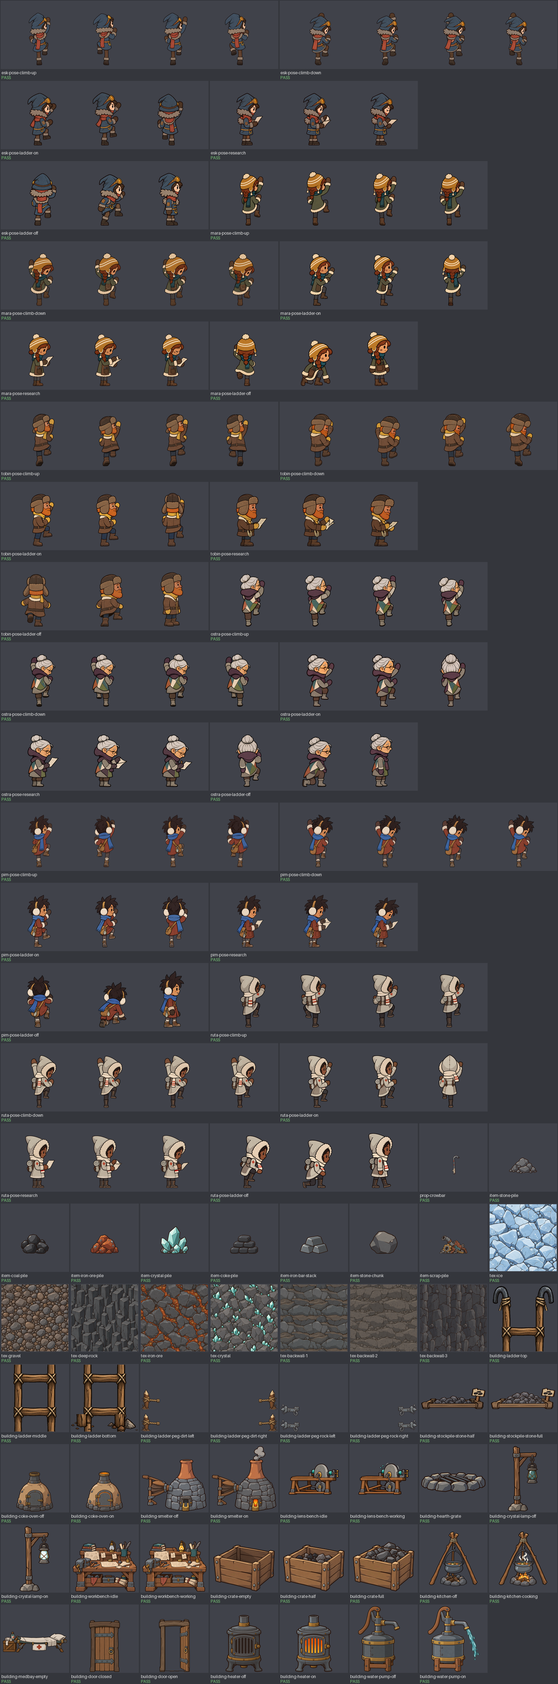
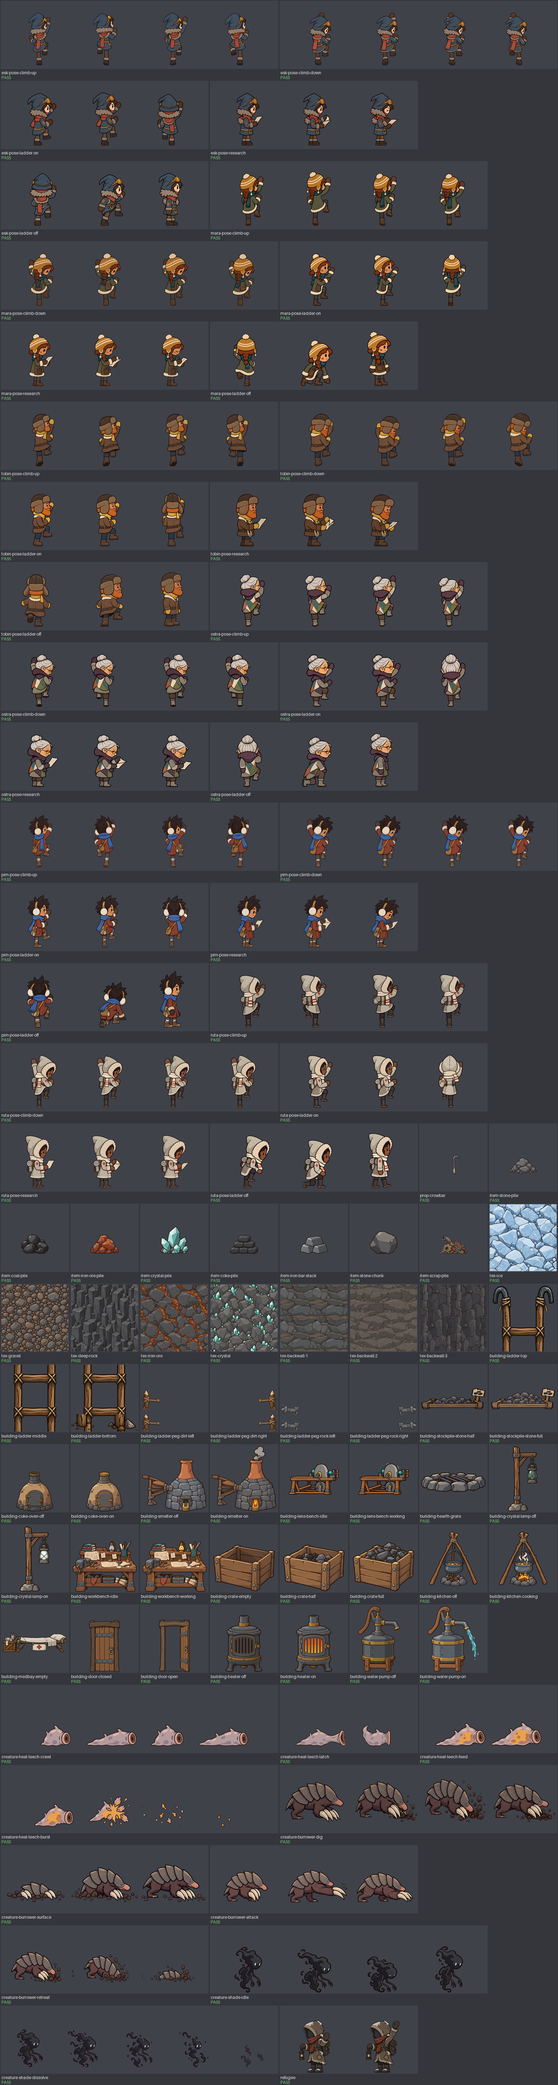
Art batch 3 creatures: Shade idle and dissolve, leeches, Burrower and refugee

diff --git a/art-codex/tools/prepare_batch3.py b/art-codex/tools/prepare_batch3.py
@@ -2,6 +2,7 @@
 """Register generated Batch 3 art without stretching poses to fill their cells."""
 import argparse
 import json
+from io import BytesIO
 from pathlib import Path
 import numpy as np
 from PIL import Image, ImageDraw, ImageOps
@@ -11,6 +12,24 @@ from prepare_generated import ROOT, OUT, content, figure_cells, asset
 def clean_source(source):
     rgba = np.array(Image.open(source).convert('RGBA'))
     rgba[:, :, 3] = np.where(rgba[:, :, 3] >= 240, 255, 0)
+    return Image.fromarray(rgba)
+
+
+def leech_palette(image):
+    """Flatten the generated translucent heat treatment into crisp fill tones."""
+    colours = np.array([[42,28,20],[85,58,62],[180,155,158],[148,125,132],
+                        [207,180,172],[207,150,132],[171,118,108],[228,183,161],
+                        [231,162,79],[191,117,68],[239,188,103]],dtype=np.int32)
+    rgba = np.array(image)
+    rgb = rgba[:,:,:3].astype(np.int32)
+    best = np.full(rgb.shape[:2],1000000,dtype=np.int32)
+    indices = np.zeros(rgb.shape[:2],dtype=np.uint8)
+    for i,colour in enumerate(colours):
+        distance = ((rgb-colour)**2).sum(axis=2,dtype=np.int32)
+        update = distance < best
+        indices[update] = i
+        best[update] = distance[update]
+    rgba[:,:,:3] = colours[indices].astype(np.uint8)
     return Image.fromarray(rgba)
 
 
@@ -55,8 +74,10 @@ def pegs(source, material):
 def register(source, ident):
     specs = json.loads((ROOT / 'assets.json').read_text())['assets']
     spec = next(a for a in specs if a['id'] == ident)
+    (ROOT.parent/spec['path']).parent.mkdir(parents=True,exist_ok=True)
     image = Image.open(source).convert('RGBA')
-    if spec.get('character') and spec['kind'] == 'pose':
+    if ident == 'refugee': image = clean_source(source)
+    if (spec.get('character') and spec['kind'] == 'pose') or ident == 'refugee':
         n = spec['frames']
         cells = figure_cells(image, n) if n > 1 else [content(image)]
         pose = Path(spec['path']).stem
@@ -78,8 +99,42 @@ def register(source, ident):
             support_x = round(xs[bottom].mean())
             x = 160-support_x
             x = max(2, min(318-cell.width, x))
-            out.alpha_composite(cell, (i*320+x, 305-cell.height))
+            baseline = 319 if ident == 'refugee' else 305
+            out.alpha_composite(cell, (i*320+x, baseline-cell.height))
         out.save(ROOT.parent / spec['path'])
+    elif ident.startswith('creature-shade-'):
+        n = spec['frames']
+        cells = [content(image.crop((i*image.width//n,0,(i+1)*image.width//n,image.height))) for i in range(n)]
+        reference = Image.open(OUT/'creatures/shade/drift.png').convert('RGBA').crop((0,0,320,320))
+        target_h = content(reference).height
+        scale = min(target_h/cells[0].height,280/max(c.width for c in cells))
+        out = Image.new('RGBA',(320*n,320))
+        for i,cell in enumerate(cells):
+            cell = cell.resize((round(cell.width*scale),round(cell.height*scale)),Image.Resampling.LANCZOS)
+            if ident.endswith('dissolve') and i == n-1:
+                alpha = cell.getchannel('A').point(lambda v:round(v*.65))
+                cell.putalpha(alpha)
+            out.alpha_composite(cell,(i*320+(320-cell.width)//2,318-cell.height))
+        out.save(ROOT.parent/spec['path'])
+    elif ident.startswith(('creature-burrower-', 'creature-heat-leech-')):
+        # Discard generated ambient haze before reduction; keep the painted art.
+        painted = clean_source(source)
+        if ident.startswith('creature-heat-leech-'): painted = leech_palette(painted)
+        if ident in {'creature-heat-leech-crawl','creature-heat-leech-latch',
+                     'creature-heat-leech-feed','creature-burrower-attack'}:
+            cells = figure_cells(painted,spec['frames'])
+            w,h,n = spec['width'],spec['height'],spec['frames']
+            scale = min((w-16)/max(c.width for c in cells),(h-8)/max(c.height for c in cells))
+            out = Image.new('RGBA',(w*n,h))
+            for i,cell in enumerate(cells):
+                cell = cell.resize((round(cell.width*scale),round(cell.height*scale)),Image.Resampling.LANCZOS)
+                out.alpha_composite(cell,(i*w+(w-cell.width)//2,h-2-cell.height))
+            out.save(ROOT.parent/spec['path'])
+            return
+        buffer = BytesIO()
+        painted.save(buffer,format='PNG')
+        buffer.seek(0)
+        asset(buffer,spec)
     elif ident.startswith(('icon-', 'badge-', 'trait-')):
         cell = content(image)
         scale = min(96/cell.width, 96/cell.height)

diff --git a/art-codex/tools/finish_batch3.py b/art-codex/tools/finish_batch3.py
@@ -81,11 +81,36 @@ def log_group(group):
     log.write_text((log.read_text()+text).rstrip()+'\n')
 
 
+def centre_strips():
+    specs = json.loads((ROOT/'assets.json').read_text())['assets']
+    for a in specs:
+        if a['batch'] != 3 or not (a['id'].startswith('creature-') or a['id']=='refugee'): continue
+        path = ROOT.parent/a['path']
+        if not path.exists(): continue
+        strip = Image.open(path).convert('RGBA')
+        w,h,n = a['width'],a['height'],a['frames']
+        cells = [strip.crop((i*w,0,(i+1)*w,h)) for i in range(n)]
+        moments = []
+        for cell in cells:
+            ys,xs = np.where(np.asarray(cell.getchannel('A')) >= 128)
+            moments.append((xs.mean(),xs.min(),xs.max()))
+        if max(m[0] for m in moments)-min(m[0] for m in moments) <= 12: continue
+        reach = max(max(c-left,right-c) for c,left,right in moments)
+        scale = min(1,(w/2-8)/reach)
+        out = Image.new('RGBA',strip.size)
+        for i,cell in enumerate(cells):
+            cell = cell.resize((round(w*scale),round(h*scale)),Image.Resampling.LANCZOS)
+            ys,xs = np.where(np.asarray(cell.getchannel('A')) >= 128)
+            out.alpha_composite(cell,(i*w+round(w/2-xs.mean()),h-2-int(ys.max())))
+        out.save(path)
+
+
 if __name__ == '__main__':
     p = argparse.ArgumentParser()
-    p.add_argument('mode',choices=('states','wrap','log'))
+    p.add_argument('mode',choices=('states','wrap','log','centre'))
     p.add_argument('value',nargs='?')
     args = p.parse_args()
     if args.mode == 'states': align_states()
+    elif args.mode == 'centre': centre_strips()
     elif args.mode == 'wrap': wrap_texture(Path(args.value))
     else: log_group(args.value)

diff --git a/art-codex/tools/review_batch3.py b/art-codex/tools/review_batch3.py
@@ -48,12 +48,35 @@ def buildings():
     sheet.save(OUT/'contact-batch3-buildings.png')
 
 
+def creatures():
+    specs = json.loads((OUT.parent/'assets.json').read_text())['assets']
+    rows = [a for a in specs if a['batch']==3 and (a['id'].startswith('creature-') or a['id']=='refugee') and (OUT.parent.parent/a['path']).exists()]
+    sheet = Image.new('RGB',(1000,len(rows)*190),'#3d3f45')
+    draw = ImageDraw.Draw(sheet)
+    for row,a in enumerate(rows):
+        path = OUT.parent.parent/a['path']
+        strip = Image.open(path).convert('RGBA')
+        frames = []
+        for i in range(a['frames']):
+            cell = strip.crop((i*a['width'],0,(i+1)*a['width'],a['height']))
+            preview = Image.new('RGBA',cell.size,(61,63,69,255))
+            preview.alpha_composite(cell)
+            frames.append(preview.convert('RGB'))
+            cell.thumbnail((192,160),Image.Resampling.LANCZOS)
+            sheet.paste(cell,(i*200+(192-cell.width)//2,row*190+160-cell.height),cell)
+        draw.text((4,row*190+166),a['id'],fill='white')
+        loop = {'loop':0} if path.stem in ('crawl','latch','feed','dig','idle') else {}
+        frames[0].save(path.with_suffix('.gif'),save_all=True,append_images=frames[1:],duration=166,**loop)
+    sheet.save(OUT/'contact-batch3-creatures.png')
+
+
 if __name__ == '__main__':
     comparison('eat')
     comparison('collapse', ('esk','mara','ostra','pim','ruta'))
     comparison('dead', ('esk','mara'))
     icons()
     buildings()
+    creatures()
     for pose in ('climb-up','climb-down','ladder-on','ladder-off','research'):
         if all((OUT/'characters'/name/'poses'/f'{pose}.png').exists() for name in NAMES):
             comparison(pose)

diff --git a/art-codex/out/LOG.md b/art-codex/out/LOG.md
@@ -1397,3 +1397,121 @@ Final prompt:
 Hand-drawn 2D game art for a side-on underground survival game. Clean, confident dark-brown ink linework of even weight, thicker on the outer silhouette and thinner inside, with slightly hand-made wobble. Flat colour fills with one crisp-edged shadow tone and one small highlight, lit evenly from the upper left. A faint paper-grain texture inside the fills only. Big simple shapes and generous plain areas; detail only where the eye should go. Muted, cold palette; warm colours only for fire, scarves and skin. In the spirit of Klei's Don't Starve and Oxygen Not Included and the flat graphic look of the Hilda animated series. Not photoreal, not 3D-rendered, no airbrushed gradients, no glow, no bloom, no rim light, no lens effects, no cast shadow on the ground, no background, no text.
 Tobin (the builder, see CHARACTERS.md). Side view facing right, standing and leaning over a waist-high workbench (not painted: leave the bench out, the game draws it). Frame 1 reading, frame 2 turning a page with the near mitten, frame 3 nodding and making a note. Body and feet stay put; only the arms, head and page move. Same scale as the turnaround: the head is exactly as wide and tall as in the turnaround's side view, so nothing grows or shrinks when the game switches from walking to this pose. A seated figure is about 0.7 of the standing height, a kneeling one about 0.75, a lying one about 0.35; never stretch a pose to fill the frame.
 The same character as the reference, same proportions, same colours. Three equally spaced full-body figures in one horizontal strip on transparent background. Same105px head and250px standing scale, groundy304,320x320 cells. Hands are simple mittens, never visible fingers. Feet and body completely fixed across3frames, movement only near mitten and head. Reading and handling a small loose sheet of paper held at waist height. DO NOT paint a bench, lamp or other furniture. Do not enlarge head or shoulders. Flat muted palette exactly matching model. Hat/head and coat/body proportions copied from turnaround.
+
+## Batch 3: creatures
+
+### creature-burrower-attack
+
+Tries: 2. Built-in imagegen. Source: `/var/home/shariq/.codex/generated_images/01a18495-b86b-71d1-8789-59a825b5766a/exec-7e36ef25-e0b6-4be7-b46b-e90eb8ce2d4a.png`.
+
+Final prompt:
+
+Hand-drawn 2D game art for a side-on underground survival game. Clean, confident dark-brown ink linework of even weight, thicker on the outer silhouette and thinner inside, with slightly hand-made wobble. Flat colour fills with one crisp-edged shadow tone and one small highlight, lit evenly from the upper left. A faint paper-grain texture inside the fills only. Big simple shapes and generous plain areas; detail only where the eye should go. Muted, cold palette; warm colours only for fire, scarves and skin. In the spirit of Klei's Don't Starve and Oxygen Not Included and the flat graphic look of the Hilda animated series. Not photoreal, not 3D-rendered, no airbrushed gradients, no glow, no bloom, no rim light, no lens effects, no cast shadow on the ground, no background, no text.
+Generate a corrected animation strip of the SAME CREATURE as reference, same proportions and colours. CLAW ATTACK, not digging. Frame1 whole eyeless armoured mole crouches and pulls its three big shovel claws BACK beside chest, ready to swipe. Frame2 huge near foreclaw swings far FORWARD to the right, clear attacking swipe, chest raised. Frame3 follow-through: near claw fully extended right, body leaning forward, head low. Full animal remains visible, constant plate and head size. No digging rocks, no rubble spray, no target or victim, no eyes. One small ink motion arc allowed.
+Exactly 3 complete, evenly spaced frames in ONE horizontal transparent strip, each frame same canvas size. No extra panels, no labels. Keep generous transparent gaps between figures. Reference shows creature design only; draw the NEW ACTION just described. Muted palette, clean crisp flat fills, no background, no ambient haze, no cast shadow.
+
+### creature-burrower-dig
+
+Tries: 1. Built-in imagegen. Source: `/var/home/shariq/.codex/generated_images/01a18495-b86b-71d1-8789-59a825b5766a/exec-26c30b9a-167c-4427-a9fe-836c1b75e41e.png`.
+
+Final prompt:
+
+Hand-drawn 2D game art for a side-on underground survival game. Clean, confident dark-brown ink linework of even weight, thicker on the outer silhouette and thinner inside, with slightly hand-made wobble. Flat colour fills with one crisp-edged shadow tone and one small highlight, lit evenly from the upper left. A faint paper-grain texture inside the fills only. Big simple shapes and generous plain areas; detail only where the eye should go. Muted, cold palette; warm colours only for fire, scarves and skin. In the spirit of Klei's Don't Starve and Oxygen Not Included and the flat graphic look of the Hilda animated series. Not photoreal, not 3D-rendered, no airbrushed gradients, no glow, no bloom, no rim light, no lens effects, no cast shadow on the ground, no background, no text.
+A Burrower: a mole-like beast the size of a dog, armoured overlapping plates, eyeless, huge shovel claws. Side view facing right. Animation: dig, 4 frames.
+Generate all frames of one animation in one image so they match.
+ONE horizontal animation strip, exactly 4 evenly spaced frames. Each frame has equal384x256 canvas and generous clear space from neighbours, real transparent background. Same anatomy, design and source-pixel scale in all frames. Base or lowest wisp remains on bottom row. Clean flat graphic shapes, consistent ink, no gradient, no glowing halo, no floor or background.  Eyeless mole, no eyes, five big armour plates, three large shovel claws; no tiny scale detail.
+
+### creature-burrower-retreat
+
+Tries: 2. Built-in imagegen. Source: `/var/home/shariq/.codex/generated_images/01a18495-b86b-71d1-8789-59a825b5766a/exec-7f44978d-547a-4377-8750-14852898f059.png`.
+
+Final prompt:
+
+Hand-drawn 2D game art for a side-on underground survival game. Clean, confident dark-brown ink linework of even weight, thicker on the outer silhouette and thinner inside, with slightly hand-made wobble. Flat colour fills with one crisp-edged shadow tone and one small highlight, lit evenly from the upper left. A faint paper-grain texture inside the fills only. Big simple shapes and generous plain areas; detail only where the eye should go. Muted, cold palette; warm colours only for fire, scarves and skin. In the spirit of Klei's Don't Starve and Oxygen Not Included and the flat graphic look of the Hilda animated series. Not photoreal, not 3D-rendered, no airbrushed gradients, no glow, no bloom, no rim light, no lens effects, no cast shadow on the ground, no background, no text.
+Generate a corrected animation strip of the SAME CREATURE as reference, same proportions and colours. RETREATING UNDERGROUND, not digging in place. Frame1 full mole crouches to dive headfirst into ground. Frame2 ONLY back armour arch and hind legs remain visible; head and front claws already underground, so NOT painted. Frame3 ONLY THREE small back-plate tips and a few rubble chips remain visible; NO head, NO legs, NO full body. Keep plates exactly same size, never enlarge partial fragments. No floor slab, only tiny rubble scatter.
+Exactly 3 complete, evenly spaced frames in ONE horizontal transparent strip, each frame same canvas size. No extra panels, no labels. Keep generous transparent gaps between figures. Reference shows creature design only; draw the NEW ACTION just described. Muted palette, clean crisp flat fills, no background, no ambient haze, no cast shadow.
+
+### creature-burrower-surface
+
+Tries: 2. Built-in imagegen. Source: `/var/home/shariq/.codex/generated_images/01a18495-b86b-71d1-8789-59a825b5766a/exec-5d77fb91-ae02-4615-9388-ad8bcc0b80de.png`.
+
+Final prompt:
+
+Hand-drawn 2D game art for a side-on underground survival game. Clean, confident dark-brown ink linework of even weight, thicker on the outer silhouette and thinner inside, with slightly hand-made wobble. Flat colour fills with one crisp-edged shadow tone and one small highlight, lit evenly from the upper left. A faint paper-grain texture inside the fills only. Big simple shapes and generous plain areas; detail only where the eye should go. Muted, cold palette; warm colours only for fire, scarves and skin. In the spirit of Klei's Don't Starve and Oxygen Not Included and the flat graphic look of the Hilda animated series. Not photoreal, not 3D-rendered, no airbrushed gradients, no glow, no bloom, no rim light, no lens effects, no cast shadow on the ground, no background, no text.
+Generate a corrected animation strip of the SAME CREATURE as reference, same proportions and colours. SURFACING from beneath ground, not digging. Frame1 ONLY the tip of two armoured back plates and two claws visible above a small rubble scatter; head and almost all body hidden underground and therefore NOT painted. Frame2 half the animal emerges: head, front plates and front claws visible, hind body still hidden. Frame3 complete armoured eyeless mole fully above ground standing ready. Same size plates and same anatomy across frames. Do not enlarge partial frames to fill canvas. No floor slab, only a little rubble.
+Exactly 3 complete, evenly spaced frames in ONE horizontal transparent strip, each frame same canvas size. No extra panels, no labels. Keep generous transparent gaps between figures. Reference shows creature design only; draw the NEW ACTION just described. Muted palette, clean crisp flat fills, no background, no ambient haze, no cast shadow.
+
+### creature-heat-leech-burst
+
+Tries: 2. Built-in imagegen. Source: `/var/home/shariq/.codex/generated_images/01a18495-b86b-71d1-8789-59a825b5766a/exec-dc939749-3fad-41b0-8497-d47e4405d73c.png`.
+
+Final prompt:
+
+Hand-drawn 2D game art for a side-on underground survival game. Clean, confident dark-brown ink linework of even weight, thicker on the outer silhouette and thinner inside, with slightly hand-made wobble. Flat colour fills with one crisp-edged shadow tone and one small highlight, lit evenly from the upper left. A faint paper-grain texture inside the fills only. Big simple shapes and generous plain areas; detail only where the eye should go. Muted, cold palette; warm colours only for fire, scarves and skin. In the spirit of Klei's Don't Starve and Oxygen Not Included and the flat graphic look of the Hilda animated series. Not photoreal, not 3D-rendered, no airbrushed gradients, no glow, no bloom, no rim light, no lens effects, no cast shadow on the ground, no background, no text.
+Generate a corrected animation strip of the SAME CREATURE as reference, same proportions and colours. ONE-SHOT NON-LOOPING BURST. Frame1 whole bloated orange-filled leech. Frame2 body splitting open with a jagged flat orange burst shape and sparks. Frame3 ONLY scattered sparks and a few tiny pink fragments; NO body, NO head, NO sucker mouth. Frame4 ONLY FOUR tiny fading orange embers; NO animal, NO head, NO sucker, NO returning to whole body. Later fragments keep original pixel scale. This is disappearance, never regeneration. Sparse final frame must still contain four clearly visible tiny embers.
+Exactly 4 complete, evenly spaced frames in ONE horizontal transparent strip, each frame same canvas size. No extra panels, no labels. Keep generous transparent gaps between figures. Reference shows creature design only; draw the NEW ACTION just described. Muted palette, clean crisp flat fills, no background, no ambient haze, no cast shadow.
+
+### creature-heat-leech-crawl
+
+Tries: 2. Built-in imagegen. Source: `/var/home/shariq/.codex/generated_images/01a18495-b86b-71d1-8789-59a825b5766a/exec-5669a3d2-b8a7-4853-a821-95c1298e2737.png`.
+
+Final prompt:
+
+Hand-drawn 2D game art for a side-on underground survival game. Clean, confident dark-brown ink linework of even weight, thicker on the outer silhouette and thinner inside, with slightly hand-made wobble. Flat colour fills with one crisp-edged shadow tone and one small highlight, lit evenly from the upper left. A faint paper-grain texture inside the fills only. Big simple shapes and generous plain areas; detail only where the eye should go. Muted, cold palette; warm colours only for fire, scarves and skin. In the spirit of Klei's Don't Starve and Oxygen Not Included and the flat graphic look of the Hilda animated series. Not photoreal, not 3D-rendered, no airbrushed gradients, no glow, no bloom, no rim light, no lens effects, no cast shadow on the ground, no background, no text.
+Generate a corrected animation strip of the SAME CREATURE as reference, same proportions and colours. A looping CRAWL only. All FOUR frames are EMPTY COLD GREY-PINK, absolutely NO orange or yellow in any frame. Frame1 short body bunched at back; frame2 body long low stretched forward; frame3 back catches up and bunches; frame4 extends forward again. Same round sucker mouth and same head scale. Change only body compression. Remove every internal orange patch from reference.
+Exactly 4 complete, evenly spaced frames in ONE horizontal transparent strip, each frame same canvas size. No extra panels, no labels. Keep generous transparent gaps between figures. Reference shows creature design only; draw the NEW ACTION just described. Muted palette, clean crisp flat fills, no background, no ambient haze, no cast shadow.
+
+### creature-heat-leech-feed
+
+Tries: 2. Built-in imagegen. Source: `/var/home/shariq/.codex/generated_images/01a18495-b86b-71d1-8789-59a825b5766a/exec-07254610-fe40-4da6-905f-f84df4211c0f.png`.
+
+Final prompt:
+
+Hand-drawn 2D game art for a side-on underground survival game. Clean, confident dark-brown ink linework of even weight, thicker on the outer silhouette and thinner inside, with slightly hand-made wobble. Flat colour fills with one crisp-edged shadow tone and one small highlight, lit evenly from the upper left. A faint paper-grain texture inside the fills only. Big simple shapes and generous plain areas; detail only where the eye should go. Muted, cold palette; warm colours only for fire, scarves and skin. In the spirit of Klei's Don't Starve and Oxygen Not Included and the flat graphic look of the Hilda animated series. Not photoreal, not 3D-rendered, no airbrushed gradients, no glow, no bloom, no rim light, no lens effects, no cast shadow on the ground, no background, no text.
+Generate a corrected animation strip of the SAME CREATURE as reference, same proportions and colours. FEEDING PULSE. Both frames already latched to imaginary surface on right, sucker pressed flat and body filled with a CRISP-EDGED SOLID FLAT ORANGE internal patch. Frame1 orange patch medium; frame2 patch slightly larger and body slightly plumper. Both frames orange, never empty cold in frame1. No gradient, no airbrush, no glowing halo; one flat orange patch with one pale flat highlight.
+Exactly 2 complete, evenly spaced frames in ONE horizontal transparent strip, each frame same canvas size. No extra panels, no labels. Keep generous transparent gaps between figures. Reference shows creature design only; draw the NEW ACTION just described. Muted palette, clean crisp flat fills, no background, no ambient haze, no cast shadow.
+
+### creature-heat-leech-latch
+
+Tries: 2. Built-in imagegen. Source: `/var/home/shariq/.codex/generated_images/01a18495-b86b-71d1-8789-59a825b5766a/exec-9a47619f-fb1c-494c-8d39-bc13bdff9e35.png`.
+
+Final prompt:
+
+Hand-drawn 2D game art for a side-on underground survival game. Clean, confident dark-brown ink linework of even weight, thicker on the outer silhouette and thinner inside, with slightly hand-made wobble. Flat colour fills with one crisp-edged shadow tone and one small highlight, lit evenly from the upper left. A faint paper-grain texture inside the fills only. Big simple shapes and generous plain areas; detail only where the eye should go. Muted, cold palette; warm colours only for fire, scarves and skin. In the spirit of Klei's Don't Starve and Oxygen Not Included and the flat graphic look of the Hilda animated series. Not photoreal, not 3D-rendered, no airbrushed gradients, no glow, no bloom, no rim light, no lens effects, no cast shadow on the ground, no background, no text.
+Generate a corrected animation strip of the SAME CREATURE as reference, same proportions and colours. LATCHING only, not feeding. Both frames COLD GREY-PINK, NO orange or yellow. Frame1 front sucker stretches and flares toward the RIGHT; frame2 wide sucker lip presses flat against an imaginary vertical surface on right, body tail curls upward and clings. Do not paint the wall or hearth. Clear suction action, no crawl cycle.
+Exactly 2 complete, evenly spaced frames in ONE horizontal transparent strip, each frame same canvas size. No extra panels, no labels. Keep generous transparent gaps between figures. Reference shows creature design only; draw the NEW ACTION just described. Muted palette, clean crisp flat fills, no background, no ambient haze, no cast shadow.
+
+### creature-shade-dissolve
+
+Tries: 1. Built-in imagegen. Source: `/var/home/shariq/.codex/generated_images/01a18495-b86b-71d1-8789-59a825b5766a/exec-cdee2a19-131b-4a07-9dde-0821436bc315.png`.
+
+Final prompt:
+
+Hand-drawn 2D game art for a side-on underground survival game. Clean, confident dark-brown ink linework of even weight, thicker on the outer silhouette and thinner inside, with slightly hand-made wobble. Flat colour fills with one crisp-edged shadow tone and one small highlight, lit evenly from the upper left. A faint paper-grain texture inside the fills only. Big simple shapes and generous plain areas; detail only where the eye should go. Muted, cold palette; warm colours only for fire, scarves and skin. In the spirit of Klei's Don't Starve and Oxygen Not Included and the flat graphic look of the Hilda animated series. Not photoreal, not 3D-rendered, no airbrushed gradients, no glow, no bloom, no rim light, no lens effects, no cast shadow on the ground, no background, no text.
+A Shade (the same figure as the batch 2 drift strip: hunched black smoke, wisping edges, pale cold eyes #e4f1fb, long thin arms). Animation: dissolve, 5 frames. Dissolving in firelight: frame 1 recoiling, frames 2 to 4 the smoke coming apart from the edges into drifting wisps and flakes, the eyes last to go, frame 5 only a few faint wisps.
+Generate all frames in one image so they match, with the batch 2 drift strip attached as the reference.
+ONE horizontal animation strip, exactly 5 evenly spaced frames. Each frame has equal320x320 canvas and generous clear space from neighbours, real transparent background. Same anatomy, design and source-pixel scale in all frames. Base or lowest wisp remains on bottom row. Clean flat graphic shapes, consistent ink, no gradient, no glowing halo, no floor or background. Same creature as the reference, same proportions, same palette.   Frame1 full hunched Shade recoils; frame2 outer wisps break; frame3 limbs fragment; frame4 eyes remain among wisps; frame5 just THREE small dark curling wisps, no eyes, no body, visible faint cores, not fully empty. Never enlarge later fragments.
+
+### creature-shade-idle
+
+Tries: 1. Built-in imagegen. Source: `/var/home/shariq/.codex/generated_images/01a18495-b86b-71d1-8789-59a825b5766a/exec-ef1af14e-1df2-4eae-ae0e-1abb7abdb682.png`.
+
+Final prompt:
+
+Hand-drawn 2D game art for a side-on underground survival game. Clean, confident dark-brown ink linework of even weight, thicker on the outer silhouette and thinner inside, with slightly hand-made wobble. Flat colour fills with one crisp-edged shadow tone and one small highlight, lit evenly from the upper left. A faint paper-grain texture inside the fills only. Big simple shapes and generous plain areas; detail only where the eye should go. Muted, cold palette; warm colours only for fire, scarves and skin. In the spirit of Klei's Don't Starve and Oxygen Not Included and the flat graphic look of the Hilda animated series. Not photoreal, not 3D-rendered, no airbrushed gradients, no glow, no bloom, no rim light, no lens effects, no cast shadow on the ground, no background, no text.
+A Shade (the same figure as the batch 2 drift strip: hunched black smoke, wisping edges, pale cold eyes #e4f1fb, long thin arms). Animation: idle, 4 frames. Idle loop: hovering in place, the smoke body slowly swelling and settling, wisps curling off the shoulders, eyes blinking once on frame 3.
+Generate all frames in one image so they match, with the batch 2 drift strip attached as the reference.
+ONE horizontal animation strip, exactly 4 evenly spaced frames. Each frame has equal320x320 canvas and generous clear space from neighbours, real transparent background. Same anatomy, design and source-pixel scale in all frames. Base or lowest wisp remains on bottom row. Clean flat graphic shapes, consistent ink, no gradient, no glowing halo, no floor or background. Same creature as the reference, same proportions, same palette.
+
+### refugee
+
+Tries: 1. Built-in imagegen. Source: `/var/home/shariq/.codex/generated_images/01a18495-b86b-71d1-8789-59a825b5766a/exec-ba6ba4bc-b766-4b82-b2d1-4a529dbdb279.png`.
+
+Final prompt:
+
+Hand-drawn 2D game art for a side-on underground survival game. Clean, confident dark-brown ink linework of even weight, thicker on the outer silhouette and thinner inside, with slightly hand-made wobble. Flat colour fills with one crisp-edged shadow tone and one small highlight, lit evenly from the upper left. A faint paper-grain texture inside the fills only. Big simple shapes and generous plain areas; detail only where the eye should go. Muted, cold palette; warm colours only for fire, scarves and skin. In the spirit of Klei's Don't Starve and Oxygen Not Included and the flat graphic look of the Hilda animated series. Not photoreal, not 3D-rendered, no airbrushed gradients, no glow, no bloom, no rim light, no lens effects, no cast shadow on the ground, no background, no text.
+A refugee in a ragged, snow-caked coat at the edge of the light, holding up a dim lantern and waving, facing left. Generic look, hood up, face in shadow. Two frames: arm up, arm higher.
+
+ONE horizontal animation strip, exactly 2 evenly spaced frames. Each frame has equal320x320 canvas and generous clear space from neighbours, real transparent background. Same anatomy, design and source-pixel scale in all frames. Base or lowest wisp remains on bottom row. Clean flat graphic shapes, consistent ink, no gradient, no glowing halo, no floor or background.     Survivor scale250px tall,105px head, coat95px, legs50px. Facing LEFT. Hood rounded grey-brown, face hidden in dark blue-grey shadow, ragged coat, pale frost crust. Real mittens, never fingers. No goggles. Lantern flame tiny flat orange, no halo. Boots on y304 in320px frame. Only arm waves; body and boots stay fixed.
+
+Creature cleanup: removed generated ambient haze before reduction; registered complete connected creatures where source figures crossed approximate cell divisions; kept one scale across every strip. Heat-leech fills reduced to crisp muted tones. Shade scale matches batch 2 drift, final dissolve wisps retain 65% alpha. Horizontal registration fixes centre-of-mass warnings. Refugee rests on the manifest bottom anchor.

diff --git a/art-codex/out/check-batch3.md b/art-codex/out/check-batch3.md
@@ -1,7 +1,7 @@
 # Art check
 
 Filters: batch=3 id=* character=*  
-**79 pass, 0 warn, 0 fail, 46 missing**
+**90 pass, 0 warn, 0 fail, 35 missing**
 
 | id | status | problems |
 |---|---|---|
@@ -84,20 +84,20 @@ Filters: batch=3 id=* character=*
 | `building-heater-on` | PASS |  |
 | `building-water-pump-off` | PASS |  |
 | `building-water-pump-on` | PASS |  |
+| `creature-heat-leech-crawl` | PASS |  |
+| `creature-heat-leech-latch` | PASS |  |
+| `creature-heat-leech-feed` | PASS |  |
+| `creature-heat-leech-burst` | PASS |  |
+| `creature-burrower-dig` | PASS |  |
+| `creature-burrower-surface` | PASS |  |
+| `creature-burrower-attack` | PASS |  |
+| `creature-burrower-retreat` | PASS |  |
+| `creature-shade-idle` | PASS |  |
+| `creature-shade-dissolve` | PASS |  |
+| `refugee` | PASS |  |
 
-## Missing (46)
+## Missing (35)
 
-- `creature-heat-leech-crawl` -> `art-codex/out/creatures/heat-leech/crawl.png`
-- `creature-heat-leech-latch` -> `art-codex/out/creatures/heat-leech/latch.png`
-- `creature-heat-leech-feed` -> `art-codex/out/creatures/heat-leech/feed.png`
-- `creature-heat-leech-burst` -> `art-codex/out/creatures/heat-leech/burst.png`
-- `creature-burrower-dig` -> `art-codex/out/creatures/burrower/dig.png`
-- `creature-burrower-surface` -> `art-codex/out/creatures/burrower/surface.png`
-- `creature-burrower-attack` -> `art-codex/out/creatures/burrower/attack.png`
-- `creature-burrower-retreat` -> `art-codex/out/creatures/burrower/retreat.png`
-- `creature-shade-idle` -> `art-codex/out/creatures/shade/idle.png`
-- `creature-shade-dissolve` -> `art-codex/out/creatures/shade/dissolve.png`
-- `refugee` -> `art-codex/out/creatures/refugee/wave.png`
 - `icon-pause` -> `art-codex/out/ui/icons/pause.png`
 - `icon-speed` -> `art-codex/out/ui/icons/speed.png`
 - `icon-priority` -> `art-codex/out/ui/icons/priority.png`
